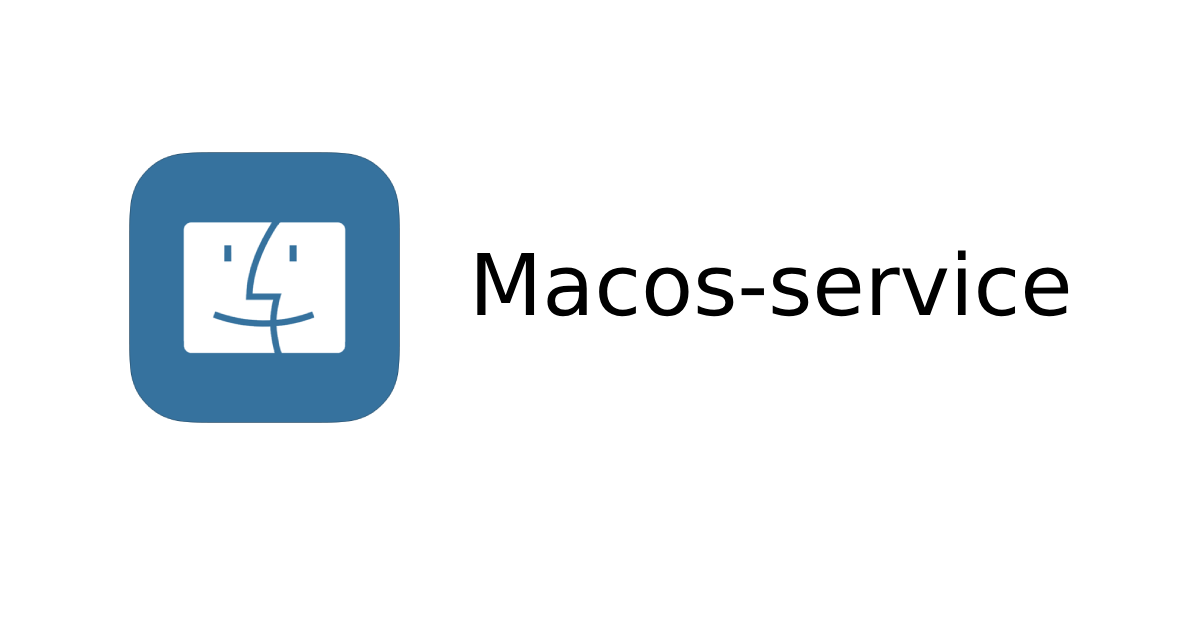
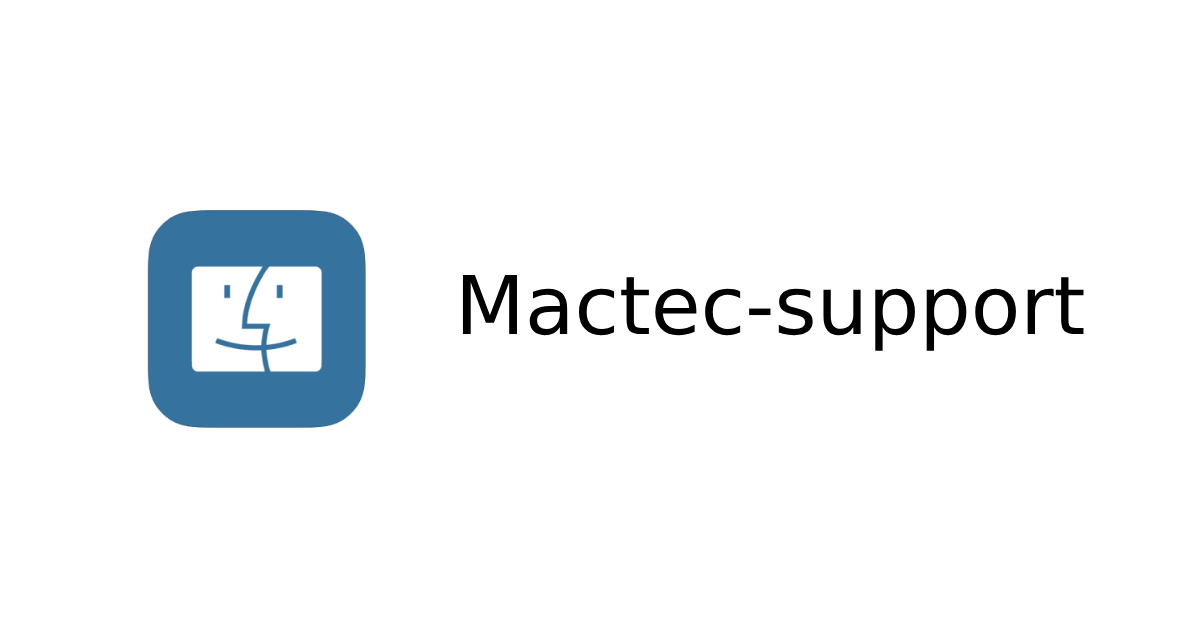
update tarif

Changed region(s): [[0.0925, 0.2413, 0.3392, 0.6937], [0.37, 0.3921, 0.925, 0.573], [0.1233, 0.6333, 0.1542, 0.6635]]

diff --git a/src/app/components/Navbar.tsx b/src/app/components/Navbar.tsx
@@ -1,137 +1,72 @@
-"use client";
-import Link from "next/link";
+"use client"
 
+import Link from "next/link";
 import { useState } from "react";
 import Button from "./Button/Button";
+
+const links = [
+  { href: "/", text: "Accueil" },
+  { href: "/#service", text: "Service" },
+  { href: "/developpement-integration", text: "Développement et Intégration" },
+  { href: "/contact", text: "Contact" }
+];
+
 export default function Navbar() {
-  const [Navbar, setNavbar] = useState(false);
-  
+  const [navbarOpen, setNavbarOpen] = useState(false);
+
+  const toggleNavbar = () => {
+    setNavbarOpen(!navbarOpen);
+  };
+
   return (
     <div>
-      <header className="flex w-full items-center justify-between bg-[#F9F9FA] p-4 ">
-        <div className="flex flex-col items-center justify-center md:px-20 ">
-          <Link href="/" onClick={() => setNavbar(false)}>
+      <header className="flex w-full items-center justify-between border-b p-4">
+        <div className="flex flex-col items-center justify-center pl-4 md:px-12">
+          <Link href="/" onClick={() => setNavbarOpen(false)}>
             <div className="headerLink pt-4 text-left">
-              <p className=" animate-fade-down animate-ease-in-out">Soutien Certifié </p>
+              <p className="animate-fade-down animate-ease-in-out">Soutien Certifié</p>
               <p>Professionnel</p>
             </div>
           </Link>
         </div>
 
-        <div className="hidden xl:flex  md:w-3/6 md:flex-1 md:justify-center md:gap-4 md:space-x-6">
-          <Link href="/" className="flex flex-col items-center">
-            Accueil
-          </Link>
-
-
-          <Link
-            href="/#tarif"
-            onClick={(e) => {
-              e.preventDefault();
-              window.location.href = '/#tarif';
-            }}
-          >
-            <p className="flex flex-col items-center">Service</p>
-          </Link>
-
-          <Link href="/developpement-integartion" className="flex flex-col items-center capitalize">
-
-            Développement et intégartion
-          </Link>
-
-          <Link
-            href="/contact"
-           
-          >
-            <p className="flex flex-col items-center">Contact</p>
-          </Link>
-        
-
+        <div className="md:flex md:w-3/6 md:flex-1 md:justify-center md:gap-4 md:space-x-4 hidden">
+          {links.map((link, index) => (
+            <Link href={link.href} key={index}>
+              <p className="navLink">{link.text}</p>
+            </Link>
+          ))}
         </div>
-        <div className="hidden flex-1 items-center justify-center gap-x-3 md:flex md:w-1/6">
+
+        <div className="flex items-center justify-center lg:hidden">
           <Button title="09 70 70 82 21" />
         </div>
+
         <div className="pr-2 md:hidden">
-          {Navbar ? (
+          <button
+            onClick={toggleNavbar}
+            className="focus:outline-none"
+          >
             <img
-              src="/close.svg"
+              src={navbarOpen ? "/svg/close.svg" : "/svg/menu.svg"}
               width={40}
               height={40}
-              alt="Picture of the menu logo"
-              onClick={() => setNavbar(!Navbar)}
+              alt="Menu Logo"
               className="hover:cursor-pointer"
             />
-          ) : (
-            <img
-              src="/menu.svg"
-              width={40}
-              height={40}
-              alt="Picture of the menu logo"
-              onClick={() => setNavbar(!Navbar)}
-              className="hover:cursor-pointer"
-            />
-          )}
+          </button>
         </div>
       </header>
 
-
-      <div
-        className={`flex-1 justify-self-center  ${Navbar ? "block md:p-0" : "hidden"
-          }`}
-      >
-        {Navbar && (
-          <div className="flex-col justify-center bg-[#F9F9FA]">
-            <Link
-              href="/"
-              className="flex flex-col items-center"
-              onClick={() => setNavbar(!Navbar)}
-            >
-
-              <p>Accueil</p>
+      <div className={`lg:hidden ${navbarOpen ? "block" : "hidden"}`}>
+        <div className="bg-[#F9F9FA] flex flex-col items-center justify-center gap-1 p-2">
+          {links.map((link, index) => (
+            <Link href={link.href} key={index} onClick={toggleNavbar} >
+              <p className="navLink">{link.text}</p>
             </Link>
-
-            <Link
-              href="/#produit"
-              onClick={(e) => {
-                e.preventDefault();
-                setNavbar(!Navbar);
-                window.location.href = '/#produit';
-              }}
-            >
-              <p className="flex flex-col items-center">Produit</p>
-            </Link>
-
-            <Link
-              href="/#tarif"
-              onClick={(e) => {
-                e.preventDefault();
-                setNavbar(!Navbar);
-                window.location.href = '/#tarif';
-              }}
-            >
-              <p className="flex flex-col items-center">Tarif</p>
-            </Link>
-
-            <Link
-              href="/about"
-              className="flex flex-col items-center capitalize"
-              onClick={() => setNavbar(!Navbar)}
-            >
-
-              à propos de nous
-            </Link>
-
-            <Link
-              href="/contact"
-             
-            >
-              <p className="flex flex-col items-center">Contact</p>
-            </Link>
-          </div>
-        )}
+          ))}
+        </div>
       </div>
     </div>
   );
 }
-
-

diff --git a/src/app/components/Footer.tsx b/src/app/components/Footer.tsx
@@ -49,10 +49,10 @@ export default function Footer() {
                 <p className="text-lg font-bold" >Email</p>
                 <p className="text-semibold underline ">
                   <a
-                    href="mailto: support@macos-service.com"
+                    href="mailto: contact@mactec-support.fr"
                     className="mr-4 hover:underline md:mr-6"
                   >
-                    support@macos-service.com
+                    contact@mactec-support.fr
                   </a>
                 </p>
               </div>
@@ -61,14 +61,14 @@ export default function Footer() {
 
           <div className="flex flex-col items-center justify-center">
             <small className="p-2 text-center  text-xs font-light">
-              Mactec-service est une société privée à responsabilité limitée qui n&apos;a aucun lien, de quelque nature que ce soit, avec la société Apple.
-              Mactec-service n&apos;est ni un réparateur, ni un revendeur agréé par la société Apple. Plus généralement, Macos-service n&apos;exerce aucune activité qui aurait fait l&apos;objet d&apos;une approbation ou d&apos;une autorisation quelconque de la société Apple. 
+              Mactec-support est une société privée à responsabilité limitée qui n&apos;a aucun lien, de quelque nature que ce soit, avec la société Apple.
+              Mactec-support n&apos;est ni un réparateur, ni un revendeur agréé par la société Apple. Plus généralement, Mactec-support n&apos;exerce aucune activité qui aurait fait l&apos;objet d&apos;une approbation ou d&apos;une autorisation quelconque de la société Apple. 
               Les droits de propriété intellectuelle portant sur des produits de la marque Apple sont la propriété exclusive de la société Apple.
               iPhone, iPod, iPad, Mac, MacBook, MacBook Pro, MacBook Air, iMac, Mac Mini, Apple Watch sont des marques déposées d&apos;Apple Inc.
 
             </small>
             <div>
-              <small>Copyright Mactec-service™ 2024</small>
+              <small>Copyright Mactec-support 2024</small>
               <small className="pl-4 hover:underline  ">
                 <Link href="/cgv">C G V</Link>
               </small>

diff --git a/src/app/components/Landing.tsx b/src/app/components/Landing.tsx
@@ -1,30 +1,31 @@
-"use client"
-
 import Button from "./Button/Button";
 
 export default function Landing() {
-
-
   return (
-    <section className="flex  bg-[#f7f7f7] bg-[url('/macc.jpeg')] bg-cover bg-center text-white text-center py-40 relative">
-      <div className="relative pl-8 md:pl-16 z-10 flex flex-col items-start justify-start gap-4 ">
-        <h1 className=" text-2xl md:text-5xl lg:text-6xl xl:text-5xl font-bold text-black">
-        Un Problème Sur votre Mac ?
-
-        </h1>
+    <section className="flex bg-[url('/images/white-bg-landing.jpeg')] bg-cover bg-no-repeat bg-center text-white text-center py-40 relative">
+      <div className="relative pl-8 md:pl-16 z-10 flex flex-col items-start justify-start gap-4">
        
-        <div className="flex flex-col ">
-          <h1 className="text-black text-left">On peux vous aider rapidement avec la plupart des problèmes  </h1>
-          <h1 className="text-black text-left"> d&apos;ordinateurs Mac à distance!</h1>
+      <h1 className="hidden md:block text-left text-5xl md:text-5xl lg:text-6xl xl:text-5xl font-bold text-black">
+          Un Problème Sur Votre Mac ?
+        </h1>
+        <h1 className="md:hidden text-left text-5xl md:text-5xl lg:text-6xl xl:text-5xl font-bold text-black">
+          Un Problème 
+        </h1>
+        <h1 className="md:hidden text-left text-5xl md:text-5xl lg:text-6xl xl:text-5xl font-bold text-black">
+        Sur Votre </h1>
+        <h1 className="md:hidden text-left text-5xl md:text-5xl lg:text-6xl xl:text-5xl font-bold text-black">
+
+        Mac ?</h1>
+        <div className="flex flex-col text-black text-left  max-w-xs md:max-w-md">
+          <p>Obtenez une assistance immédiate à distance, <br className="hidden md:block" />
+            sans rendez-vous et sans vous déplacer !</p>
         </div>
 
         <div>
-
           <Button title="09 70 70 82 21" />
           <small className="block mt-2 text-black">Appel gratuit non surtaxé</small>
         </div>
       </div>
-
     </section>
   );
 }

diff --git a/src/app/(pages)/developpement-integration/page.tsx b/src/app/(pages)/developpement-integration/page.tsx
@@ -6,7 +6,7 @@ export default function Page() {
   return (
     <>
       <section className="min-h-screen">
-        <section className="flex bg-[#f7f7f7] bg-[url('/hero.jpeg')] bg-cover bg-center text-white text-center py-40 relative">
+        <section className="flex bg-[#f7f7f7] bg-[url('/images/hero.jpeg')] bg-cover bg-center text-white text-center py-40 relative">
           <div className="relative pl-8 md:pl-16 z-10 flex flex-col items-start justify-start gap-4">
             <h1 className="text-2xl md:text-5xl lg:text-6xl xl:text-5xl font-bold text-left text-black">
               Des solutions digitales sur mesure <br /> pour booster votre réussite
@@ -32,11 +32,11 @@ export default function Page() {
           <div className="text-xl tracking-wide md:w-1/2">
             Développement web: Sites corporate et vitrine, sites e-commerce performants, extranet et outils métiers sur mesure, nous concevons des solutions digitales qui répondent aux exigences les plus pointues.
           </div>
-          <img src="dev1.jpeg" alt="Development" className="w-80" />
+          <img src="images/dev1.jpeg" alt="Development" className="w-80" />
         </div>
 
         <div className="flex flex-col md:flex-row items-center justify-around p-20 gap-8">
-          <img src="dev2.jpeg" alt="Development" className="w-80" />
+          <img src="images/dev2.jpeg" alt="Development" className="w-80" />
           <div className="text-xl tracking-wide md:w-1/2">
             Conseil en stratégie digitale et communication: Nos experts vous accompagnent dans l&apos;élaboration d&apos;une stratégie digitale cohérente et efficace, en parfaite adéquation avec vos objectifs de communication et de marketing.
           </div>

diff --git a/src/app/components/Button/Button.tsx b/src/app/components/Button/Button.tsx
@@ -5,8 +5,10 @@ export default function Button ({ title }: Props) {
 
   return (
     <div>  
-      <a href="tel:0970708221" className="relative inline-flex items-center justify-center p-4 px-6 py-3 overflow-hidden font-medium text-black transition duration-300 ease-out border-2 border-black rounded-full shadow-md group" >
-        <span className="absolute inset-0 flex items-center justify-center w-full h-full text-white duration-300 -translate-x-full bg-black group-hover:translate-x-0 ease">
+      <a href="tel:0970708221" className="relative inline-flex items-center justify-center p-4 px-6 py-3 overflow-hidden font-medium
+         text-[#1353a7] transition duration-300 ease-out border-2 border-[#1353a7] rounded-full shadow-md group" >
+        <span className="absolute inset-0 flex items-center justify-center w-full h-full 
+          text-white duration-300 -translate-x-full bg-[#1353a7] group-hover:translate-x-0 ease">
           <svg
             xmlns="http://www.w3.org/2000/svg"
             fill="none"
@@ -22,7 +24,8 @@ export default function Button ({ title }: Props) {
             />
           </svg>
         </span>
-        <span className="absolute flex items-center justify-center w-full h-full text-black transition-all duration-300 transform group-hover:translate-x-full ease">
+        <span className="absolute flex items-center justify-center w-full h-full
+         text-[#1353a7] transition-all duration-300 transform group-hover:translate-x-full ease">
           {title}
         </span>
         <span className="relative invisible">{title}</span>

diff --git a/src/app/components/Tarif.tsx b/src/app/components/Tarif.tsx
@@ -5,13 +5,12 @@ import Button from "./Button/Button"
 
 export default function Tarif() {
   return (
-    <section className="p-8 bg-[#f7f7f7] space-y-4  " >
-      <div className="flex flex-col-reverse md:flex-row justify-around">
-
+    <section className="p-8 md:p-16 bg-white space-y-4  " >
+      <div className="flex flex-col-reverse md:flex-row justify-between">
         <div className="space-y-4 md:space-y-20 flex items-start justify-center flex-col">
           <div>
 
-            <div id="tarif" />
+            <div id="service" />
             <h1 className="text-4xl font-bold mb-2 text-slate-800">
               Découvrez notre assistance en temps réel,
             </h1>
@@ -43,7 +42,7 @@ export default function Tarif() {
 
 
         </div>
-        <img src="tarif.jpg" alt="" className="md:w-2/5" />
+        <img src="images/tarif.jpeg" alt="" className="md:w-3/5" />
       </div>
      
       <div className="w-full flex flex-col md:flex-row items-center justify-around gap-4 ">

diff --git a/src/app/components/Entreprise.tsx b/src/app/components/Entreprise.tsx
@@ -8,7 +8,7 @@ function Entreprise() {
       <span className=" text-center text-black pt-20  text-4xl font-bold">
         On Remet Votre Mac à Zéro Comme Neuf
       </span>
-      <img src="/mac.png" alt="et" className="w-full" />
+      <img src="/images/mac.png" alt="et" className="w-full" />
       <p className="text-bold px-4 pt-8 text-justify md:px-60 md:text-xl">
         Offrez une seconde jeunesse à votre Mac et évitez de le remplacer. Nous
         possédons les ressources et les compétences nécessaires pour installer,

diff --git a/src/app/(pages)/contact/page.tsx b/src/app/(pages)/contact/page.tsx
@@ -4,7 +4,7 @@ const Contact = () => {
     return ( 
         <div className="flex flex-col  md:flex-row items-center justify-center min-h-screen py-2 bg-gray-50">
           <div className="w-full mb-8 max-w-3xl p-2 ">
-          <form action="mailto:support@macos-service.com" method="post" >
+          <form action="mailto:contact@mactec-support.fr" method="post" >
 
               <input type="hidden" name="remember" value="true" />
               <div className="rounded-md shadow-sm -space-y-px">

diff --git a/src/app/layout.tsx b/src/app/layout.tsx
@@ -8,8 +8,8 @@ import CookieConsent from "./components/CookieConsent";
 const inter = Inter({ subsets: ["latin"] });
 
 export const metadata = {  
-  title: "mactec-service",
-  description: "Bienvenue sur mactec-service",
+  title: "mactec-support",
+  description: "Bienvenue sur mactec-support",
 };
 
 export default function RootLayout({
